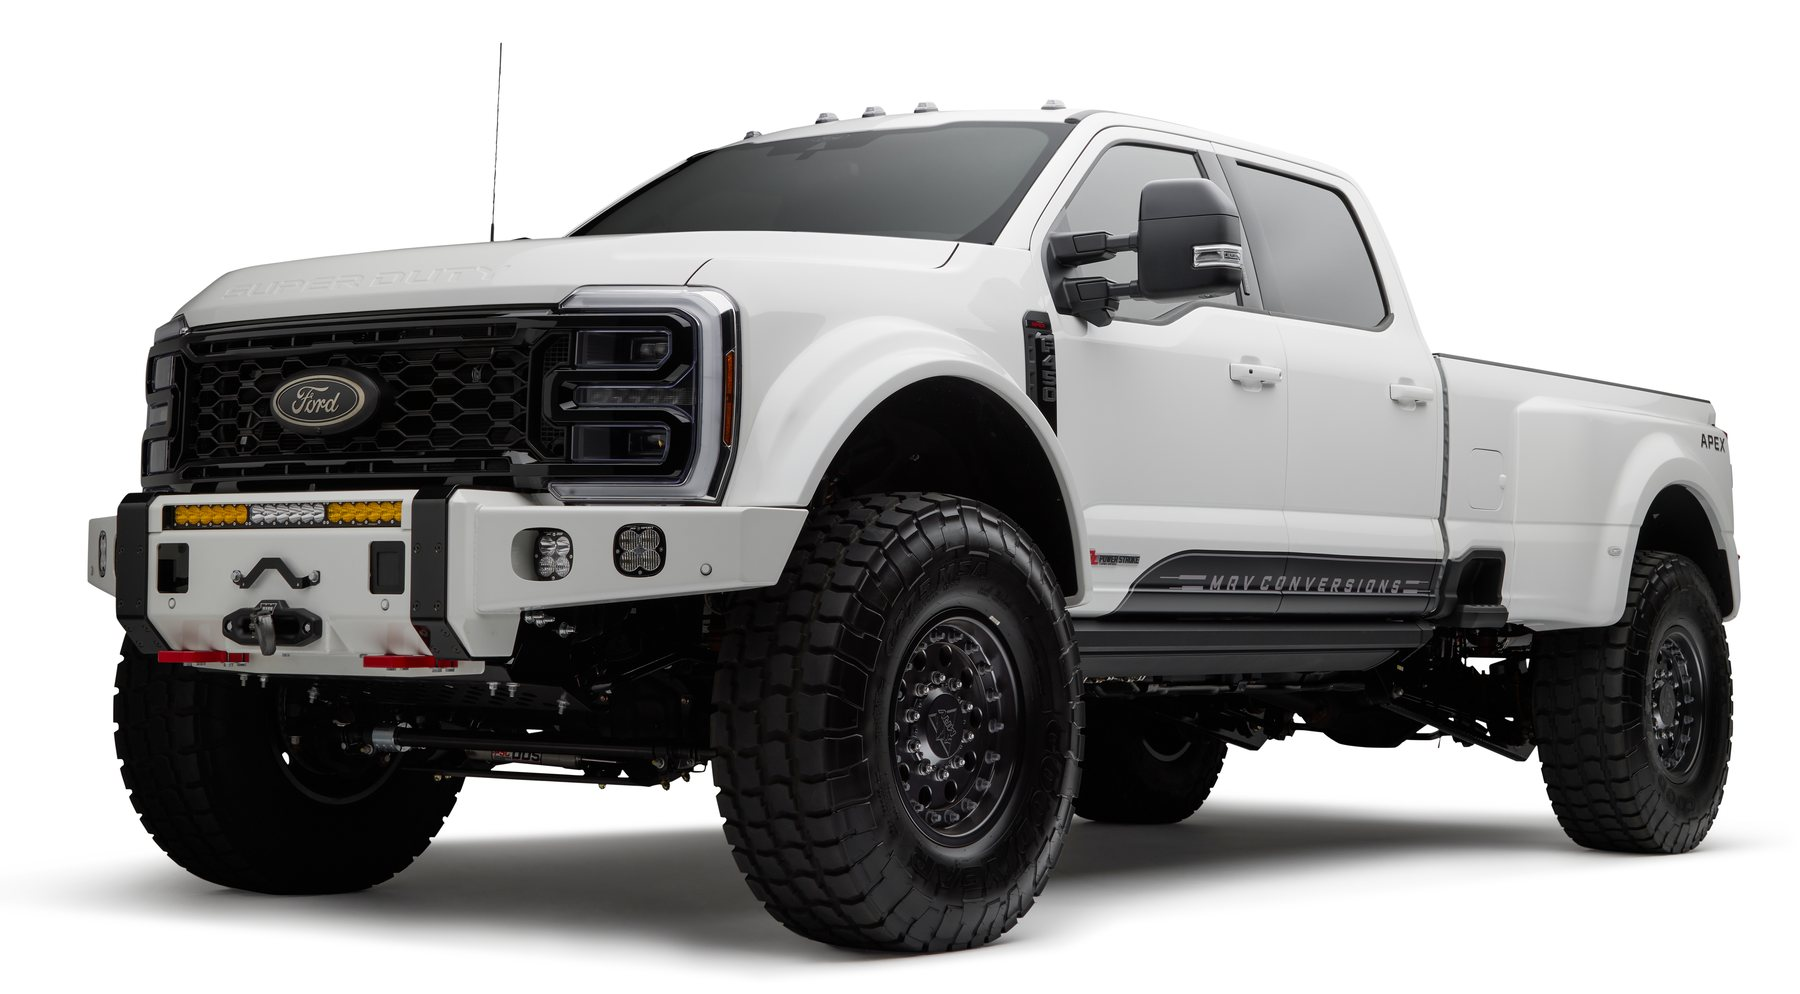
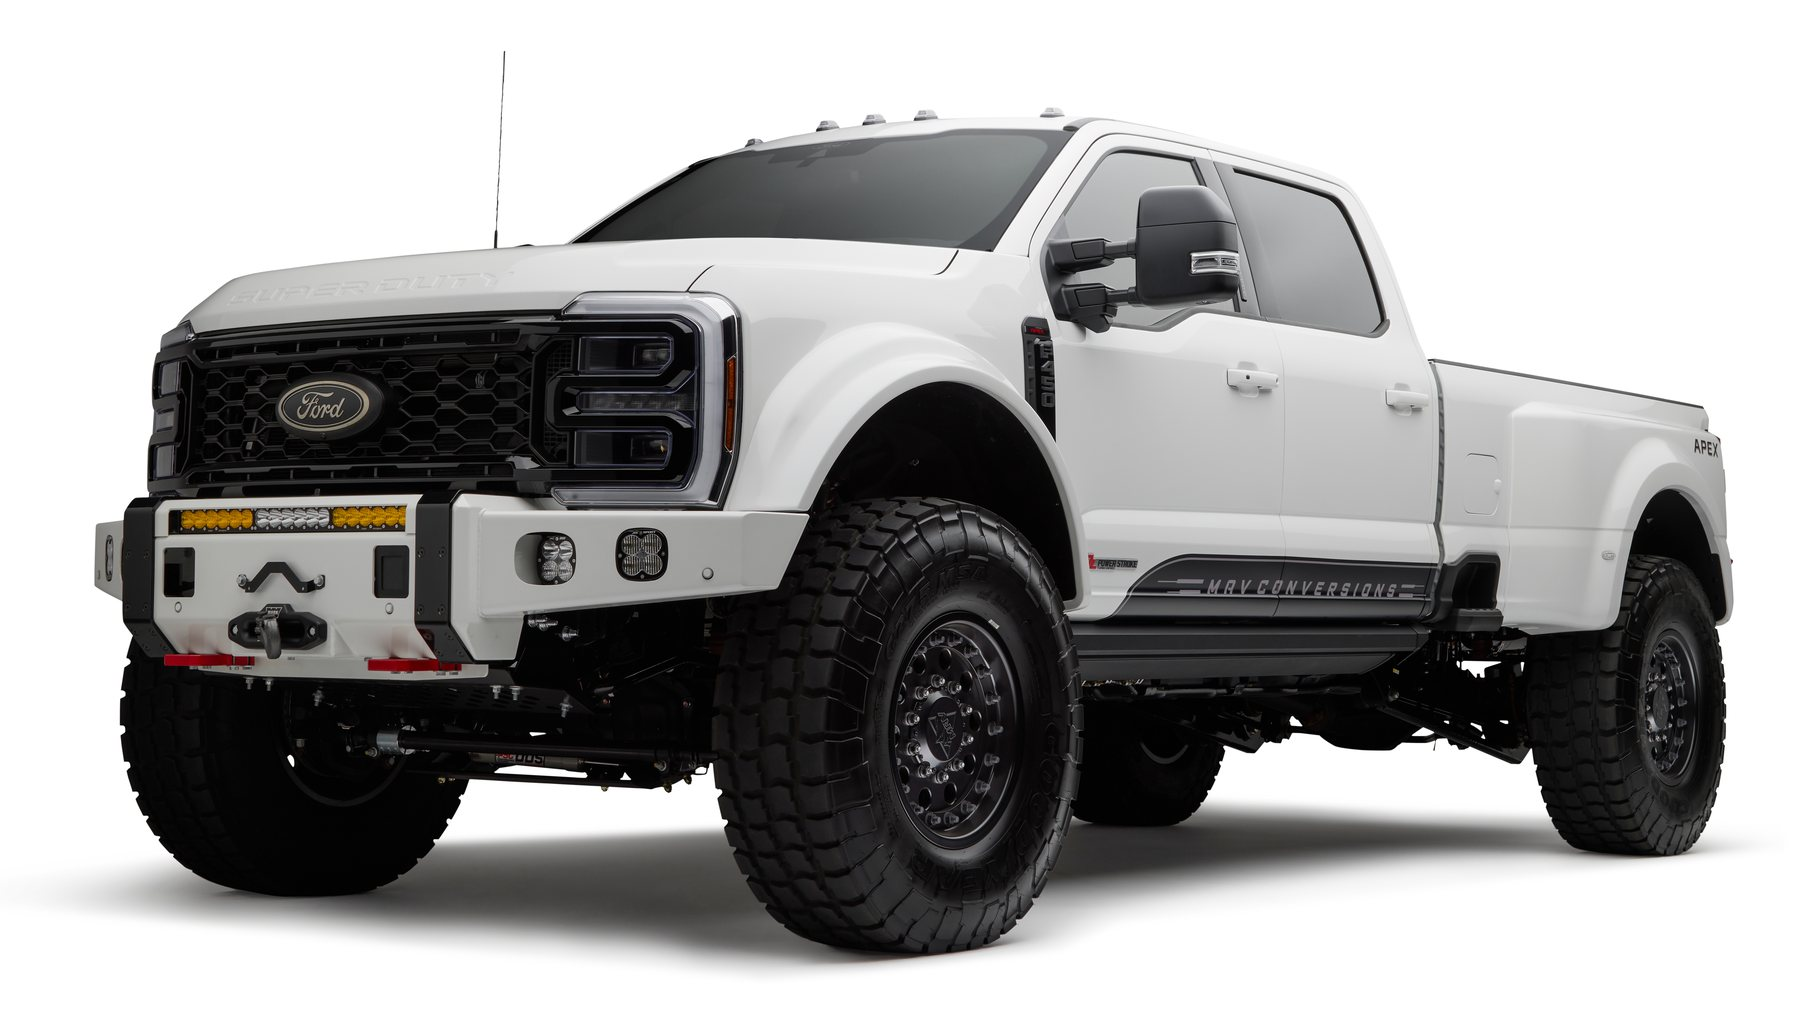
Show the Apex standing taller, and lock the page
Two things, both about the stage.

CROPPED TO ONE SCALE. Each photograph was cropped to its own truck, which
filled the stage and erased the only thing the packages visibly differ by:
an Apex rides about three and a half inches higher than a Summit, and
fitting each to its own box renders them the same size. Switching package
changed the paint and nothing else.

The scale could not come from the files. The camera did not sit in the same
place for both shoots, and the obvious ruler -- bumper to bumper on a shared
chassis -- is unusable on the side view, where the Apex runs to the very
edge of the frame and its measured length is the image's rather than the
truck's. So the ruler is the specification, which is exact and already
printed on the page: 2in lift on 41s against 4in on 44s is 3.5in on a
roofline of about 86.5in, so an Apex stands 4.05% taller.

Each pair is now scaled until its measured roof-to-ground heights sit in
that ratio and cut from one shared box anchored on the ground. Same box,
same zoom, both trucks on the same floor, and the Apex reaches higher
because it is higher -- 4.3% in all three views, measured back off the
output. Roof is measured rather than the top of the subject, because the
whip antenna is taller than the cab and bent differently in every frame.

LOCKED. The page no longer scrolls above the breakpoint: the window holds
the truck and the rail, the rail scrolls inside itself, and there is nothing
[…]

diff --git a/styles.css b/styles.css
@@ -1066,6 +1066,24 @@ body.lb-lock { overflow: hidden; }
 
 .cfg-loading { padding: 80px var(--gut); color: var(--muted); }
 
+/* Locked, the way a car configurator is: the window holds the truck and the
+   rail, the rail scrolls inside itself, and the page behind them does not
+   move. Scrolling over the photograph does nothing, because there is nothing
+   under it to go to.
+
+   Only above the breakpoint. Stacked on a phone the page IS the scroll, and
+   locking it would strand everything below the picture.
+
+   The class is added by the engine once the catalog renders, so a page that
+   could not reach the catalog -- which falls back to a phone number and a
+   footer -- is still free to scroll. */
+@media (min-width: 1041px) {
+  body.cfg-locked { height: 100vh; overflow: hidden; }
+  /* Nothing below the fold to reach, so nothing below the fold. */
+  body.cfg-locked .band-last,
+  body.cfg-locked .footer { display: none; }
+}
+
 @media (max-width: 1040px) {
   /* One column: the truck on top, the questions under it, and the page
      itself does the scrolling. Nothing is a fixed height any more -- a

diff --git a/build.html b/build.html
@@ -378,7 +378,7 @@
     // a refresh re-fetches the page but not necessarily its images, so one
     // package came back correct and the other did not, which looks like a
     // bug in the page rather than a stale file. A new URL cannot be stale.
-    var PHOTO_V = "?v=2";
+    var PHOTO_V = "?v=3";
 
     var PHOTOS = {
       Summit: [
@@ -828,6 +828,12 @@
         pick.delivery = cat.delivery[0];
         elLoading.hidden = true;
         elCfg.hidden = false;
+        // The page stops scrolling now: the configurator is exactly one
+        // window tall, the rail does its own scrolling, and there is nothing
+        // under the truck to reach. Set from here rather than in the markup
+        // on purpose -- if the catalog never arrives the page is a phone
+        // number and a footer, and that still has to scroll.
+        document.body.classList.add("cfg-locked");
         render();
         preload();
       })
